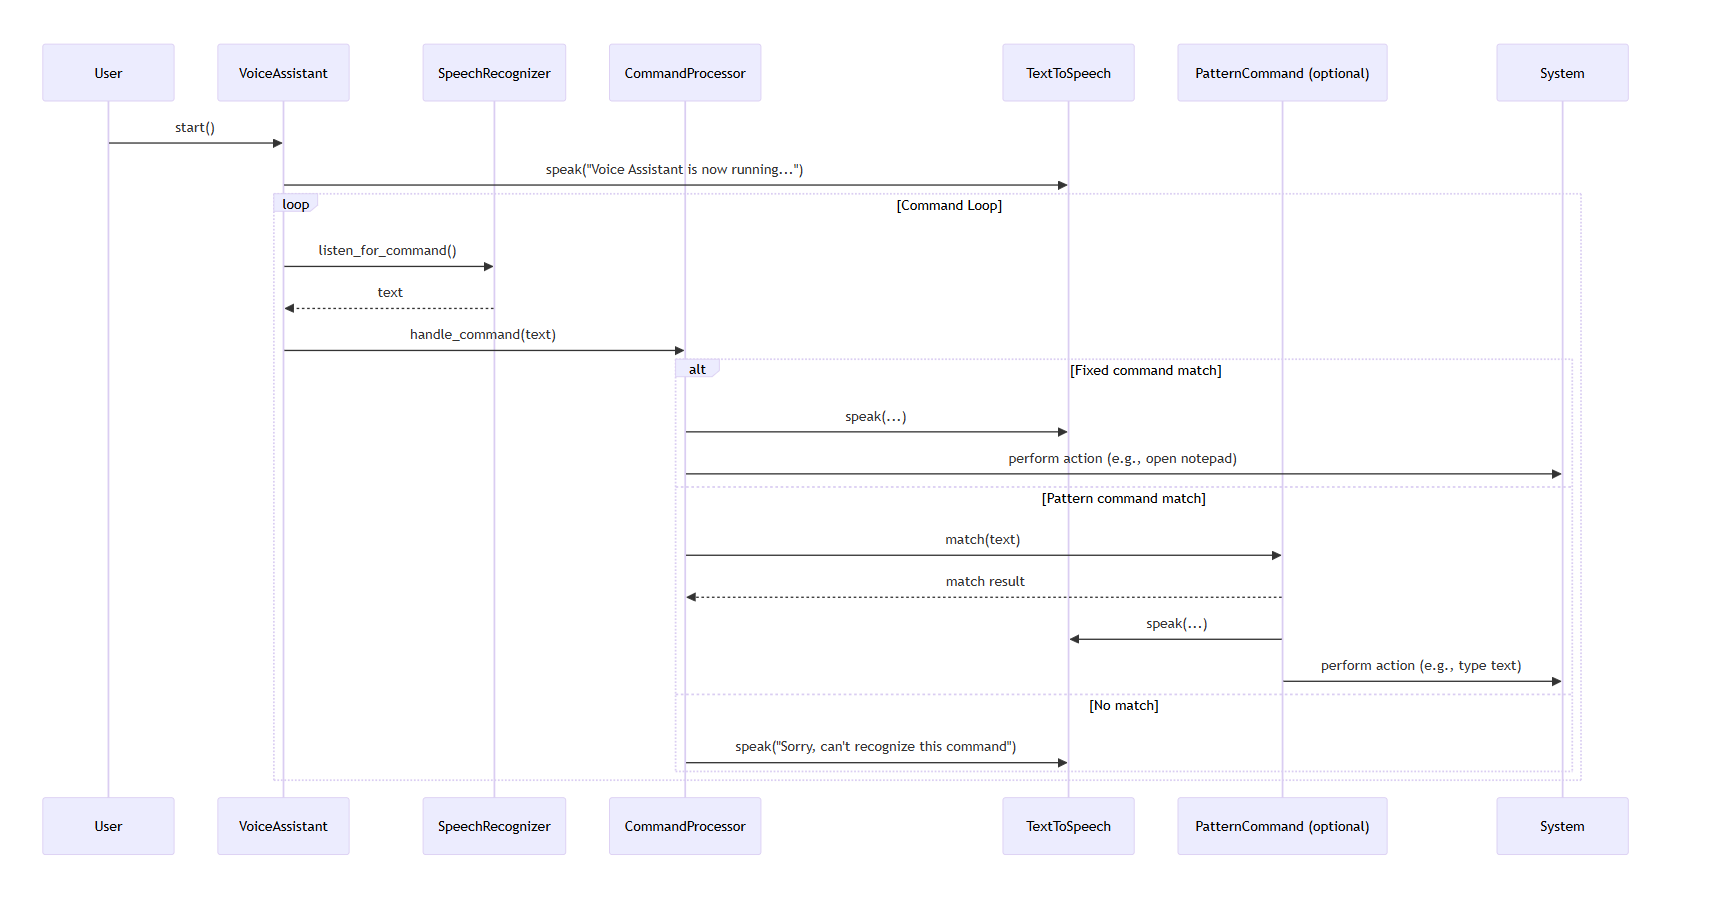
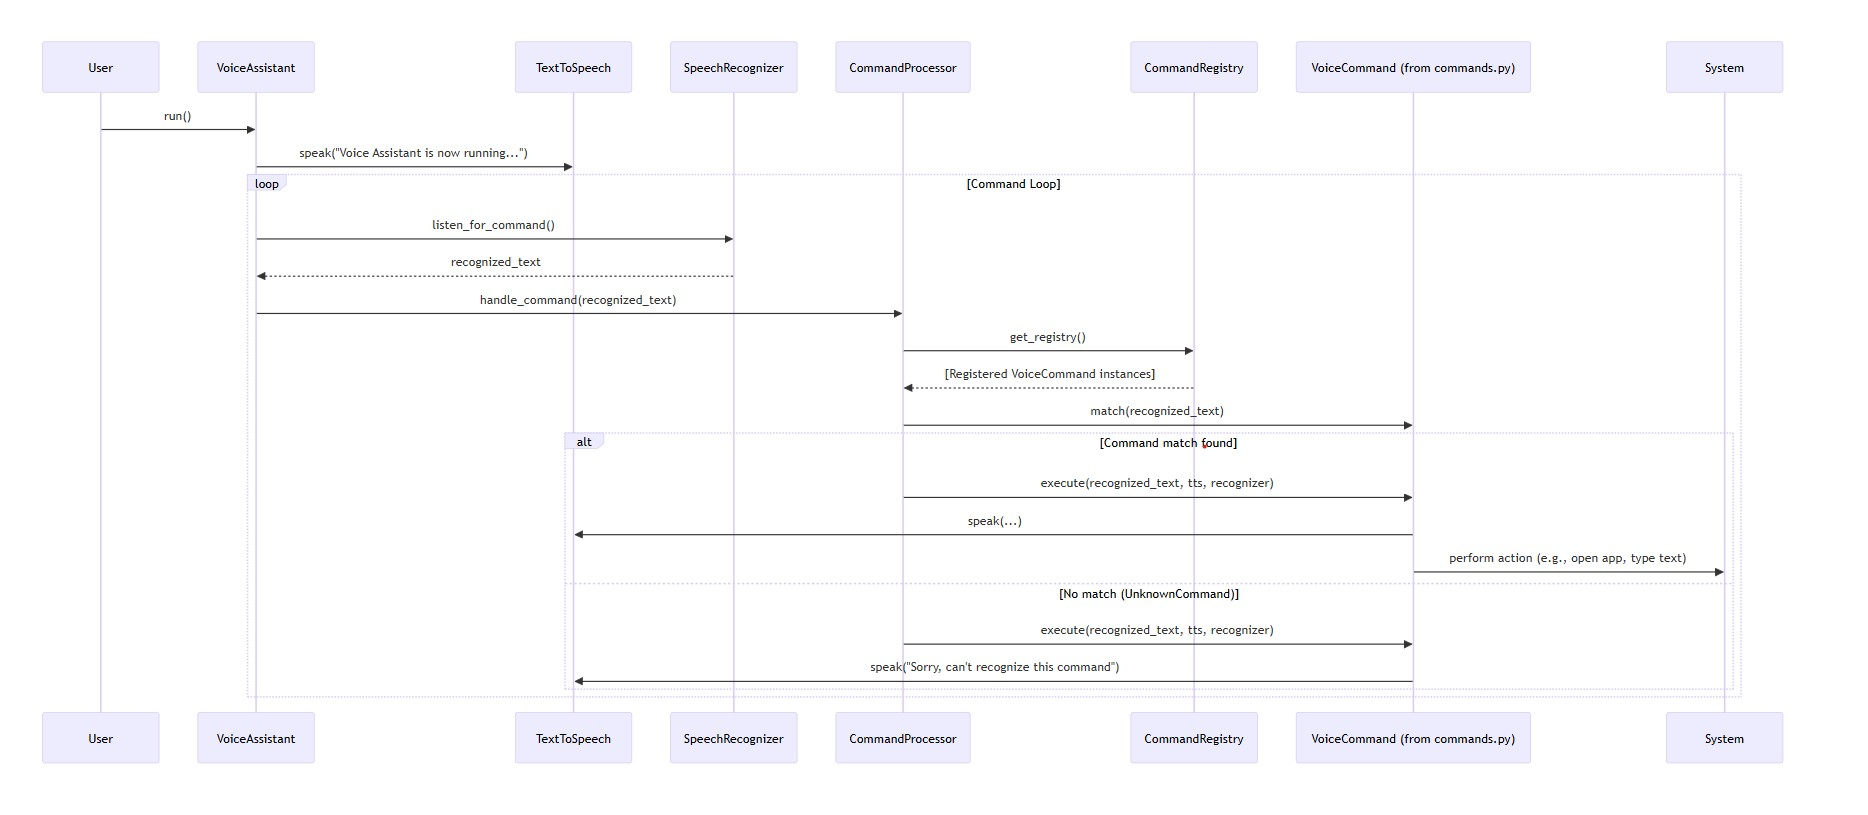
Update the README , the Sequence diagram , and the work flow markdown

diff --git a/README.md b/README.md
@@ -50,20 +50,28 @@ either by pasting this command in the terminal: python main.py
 or
 double clicking the main.py file
 
+
 ## 🗣 Supported Voice Commands
 
-| Command            | Action                           |
-| ------------------ | -------------------------------- |
-| "open notepad"     | Launches Notepad                 |
-| "open calculator"  | Launches Calculator              |
-| "take screenshot"  | Saves a screenshot to file       |
-| "show image"       | Opens `image.jpg`                |
-| "copy this text"   | Copies predefined text           |
-| "paste clipboard"  | Pastes clipboard content         |
-| "type hello world" | Types "hello world"              |
-| "search for cats"  | Opens browser, searches for cats |
-| "close window"     | Prompts to close active window   |
-| "exit"             | Gracefully exits the program     |
+| Command Example         | Action                                 |
+|------------------------|----------------------------------------|
+| "open notepad"         | Launches Notepad                       |
+| "open calculator"      | Launches Calculator                    |
+| "take screenshot"      | Saves a screenshot to file             |
+| "show image"           | Opens `image.jpg`                      |
+| "copy text"            | Copies predefined text                 |
+| "paste clipboard"      | Pastes clipboard content               |
+| "read clipboard"       | Reads clipboard content aloud          |
+| "type hello world"     | Types "hello world"                    |
+| "search for cats"      | Opens browser, searches for "cats"     |
+| "open youtube"         | Opens YouTube in browser               |
+| "open browser"         | Opens Google in browser                |
+| "minimize all windows" | Minimizes all windows                  |
+| "maximize window"      | Maximizes the current window           |
+| "switch window"        | Switches to the next window            |
+| "close window"         | Prompts to close active window         |
+| "hi"/"hello"/"welcome" | Greets you                             |
+| "exit"/"bye"           | Gracefully exits the program           |
 
 
 ## 📦 Dependencies
@@ -86,19 +94,50 @@ os (built-in)
 
 Use pip install -r requirements.txt to install them all.
 
+
 ## 📁 File Structure
 
-voice-assistant\
-│\
-├── main.py                         # Entry point   \
-├── vosk-model-small-en-us-0.15/    # Speech recognition model  \
-├── image.jpg                       # Used in "show image"  \
-├── requirements.txt                # Dependencies  \
-├── README.md                       # You are here
+voice-assistant/\
+│
+├── main.py                         # Entry point\
+├── commands.py                     # All command classes\
+├── requirements.txt                # Dependencies\
+├── README.md                       # You are here\
+├── image.jpg                       # Used in "show image"\
+├── vosk-model-small-en-us-0.15/    # Speech recognition model\
+├── core/\
+│   ├── __init__.py\
+│   ├── text_to_speech.py           # Text-to-speech logic\
+│   ├── recognizer.py               # Speech recognition logic\
+│   ├── processor.py                # Command processing logic\
+│   └── registry.py                 # Command registry & base class\
+└── tests/                          # Unit tests
 
+
+## 🧪 Running the Tests
+
+To run all unit tests, use the following command from your project root:
+
+```sh
+python -m unittest discover -s tests
+```
+Or -v (verbose)flag to prints the names of failed test cases,
+```sh
+python -m unittest discover -s tests -v
+```
+
+Or, to run a specific test file:
+
+```sh
+python -m unittest tests/test_typecommands.py
+```
+
+All tests are located in the `tests/` directory and follow the `test_*.py` naming convention.
+
+---
 
 ## 👤 Author
 Created by Ahmed Essam Sayed    \
 ahmed52essam@gmail.com
 
-Feel free to contact me for support or in case needed Access to GitHub Repository
+Feel free to contact me for support.

diff --git a/voice_assistant_workflow.md b/voice_assistant_workflow.md
@@ -1,33 +1,35 @@
-# 🧠 Voice Assistant Sequence Diagram
 
-This sequence diagram illustrates the interaction between the major components of the Python Voice Assistant:
+# 🧠 Voice Assistant Sequence Diagram (Modular Design)
+
+This sequence diagram illustrates the updated modular workflow of the Python Voice Assistant:
 
 ```mermaid
 sequenceDiagram
     participant User
     participant Assistant as VoiceAssistant
+    participant TTS as TextToSpeech
     participant Recognizer as SpeechRecognizer
     participant Processor as CommandProcessor
-    participant TTS as TextToSpeech
-    participant Pattern as PatternCommand (optional)
+    participant Registry as CommandRegistry
+    participant Command as VoiceCommand (from commands.py)
 
-    User->>Assistant: start()
+    User->>Assistant: run()
     Assistant->>TTS: speak("Voice Assistant is now running...")
 
     loop Command Loop
         Assistant->>Recognizer: listen_for_command()
-        Recognizer-->>Assistant: text
-        Assistant->>Processor: handle_command(text)
-
-        alt Fixed command match
-            Processor->>TTS: speak(...)
-            Processor->>System: perform action (e.g., open notepad)
-        else Pattern command match
-            Processor->>Pattern: match(text)
-            Pattern-->>Processor: match result
-            Pattern->>TTS: speak(...)
-            Pattern->>System: perform action (e.g., type text)
-        else No match
-            Processor->>TTS: speak("Sorry, can't recognize this command")
+        Recognizer-->>Assistant: recognized_text
+        Assistant->>Processor: handle_command(recognized_text)
+        Processor->>Registry: get_registry()
+        Registry-->>Processor: [Registered VoiceCommand instances]
+        Processor->>Command: match(recognized_text)
+        alt Command match found
+            Processor->>Command: execute(recognized_text, tts, recognizer)
+            Command->>TTS: speak(...)
+            Command->>System: perform action (e.g., open app, type text)
+        else No match (UnknownCommand)
+            Processor->>Command: execute(recognized_text, tts, recognizer)
+            Command->>TTS: speak("Sorry, can't recognize this command")
         end
     end
+```
